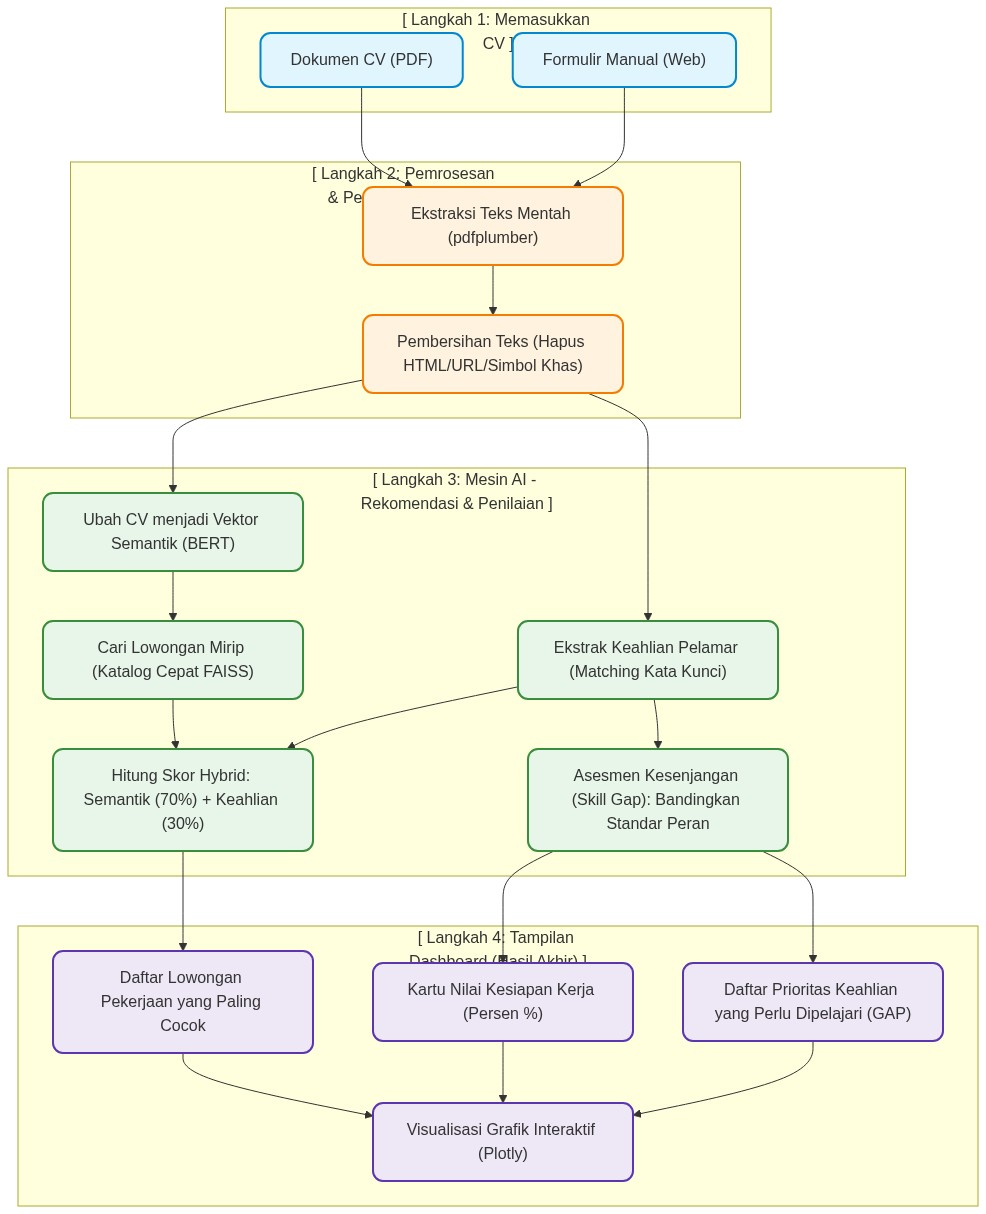
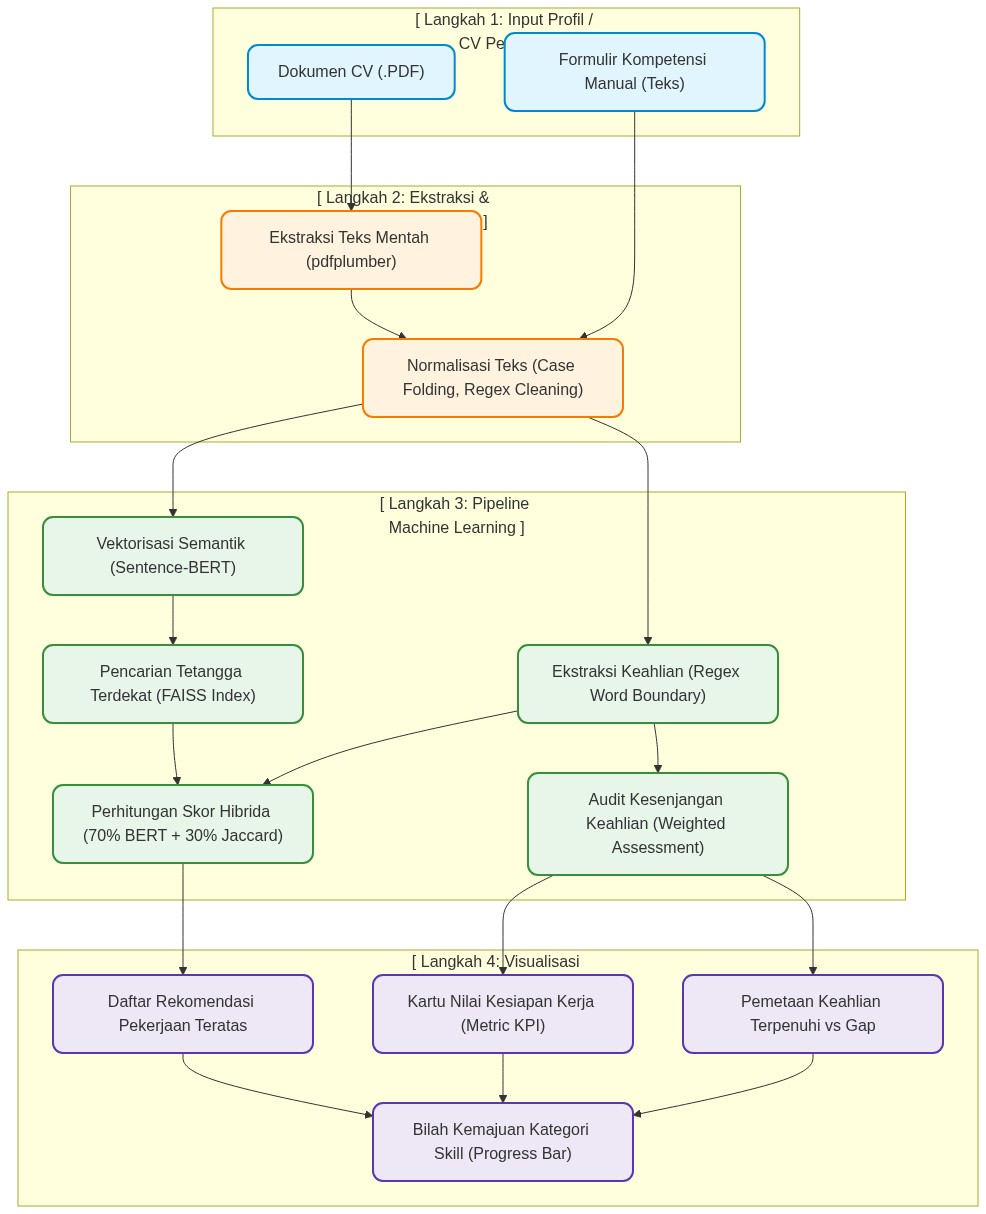
docs: tambahkan gambar PNG diagram fisik dan tautkan ke berkas panduan markdown

Changed region(s): [[0.0, 0.0, 1.0, 0.8839], [0.426, 0.9143, 0.6085, 0.9753]]

diff --git a/CV Recommender/PROSES_PENGEMBANGAN_ML.md b/CV Recommender/PROSES_PENGEMBANGAN_ML.md
@@ -10,6 +10,11 @@ Buku panduan ini dirancang untuk menjelaskan seluruh alur pengembangan, dari eks
 
 Diagram di bawah ini menggambarkan bagaimana data CV pelamar kerja diproses secara bertahap oleh kecerdasan buatan (BERT & FAISS) hingga menghasilkan kecocokan lowongan kerja dan rekomendasi kesiapan keahlian di layar dashboard.
 
+![Diagram Arsitektur Sistem](architecture_diagram.png)
+
+<details>
+<summary><b>Klik di sini untuk melihat Kode Sumber Mermaid (jika ingin diedit kembali)</b></summary>
+
 ```mermaid
 graph TD
     classDef inputStyle fill:#e1f5fe,stroke:#0288d1,stroke-width:2px,rx:10px,ry:10px;
@@ -68,6 +73,8 @@ graph TD
     class C1,C2,C3,C4,C5 databaseStyle;
     class D1,D2,D3,D4 outputStyle;
 ```
+
+</details>
 
 ### Penjelasan Detail Alur Data:
 1. **Langkah 1 (Input):** Pelamar kerja memasukkan profil mereka melalui dua opsi: mengunggah berkas **PDF CV** asli, atau mengisi **formulir teks** terstruktur (Tahun Pengalaman, Pendidikan, Keahlian Pilihan).

diff --git a/Gap Analysis/PROSES_PENGEMBANGAN_ANALISIS.md b/Gap Analysis/PROSES_PENGEMBANGAN_ANALISIS.md
@@ -10,6 +10,11 @@ Panduan ini berisi penjelasan lengkap dan terstruktur mengenai alur pemrosesan d
 
 Diagram di bawah ini menggambarkan perjalanan data dari file mentah di lokal dan broker cloud (Aiven Kafka) hingga menjadi dataset kesenjangan siap saji di dashboard:
 
+![Diagram Alur Analisis Gap](gap_analysis_flow.png)
+
+<details>
+<summary><b>Klik di sini untuk melihat Kode Sumber Mermaid (jika ingin diedit kembali)</b></summary>
+
 ```mermaid
 graph TD
     classDef sourceStyle fill:#e8f5e9,stroke:#388e3c,stroke-width:2px,rx:10px,ry:10px;
@@ -63,6 +68,8 @@ graph TD
     class C1,C2,C3 calcStyle;
     class D1,D2,D3 viewStyle;
 ```
+
+</details>
 
 ### Penjelasan Rinci Alur Kerja ETL:
 1. **Fase 1 (Sumber Data):** Kita memiliki data industri berupa berkas CSV berisi ribuan iklan lowongan kerja (`adzuna_jobs.csv`) dan data akademik berupa berkas Excel standar keahlian O*NET (`Technology Skills.xlsx`). Selain itu, ada antrean pesan dinamis di broker cloud Aiven Kafka.

diff --git a/CV Recommender/TUTORIAL_DEPLOYMENT.md b/CV Recommender/TUTORIAL_DEPLOYMENT.md
@@ -10,6 +10,11 @@ Panduan ini berisi petunjuk lengkap dari dasar untuk menyiapkan, menjalankan, da
 
 Diagram di bawah ini menggambarkan bagaimana komponen frontend (Streamlit) dan backend (FastAPI/Pipeline) berinteraksi dalam lingkungan production:
 
+![Diagram Arsitektur Deployment](deployment_diagram.png)
+
+<details>
+<summary><b>Klik di sini untuk melihat Kode Sumber Mermaid (jika ingin diedit kembali)</b></summary>
+
 ```mermaid
 graph LR
     classDef clientStyle fill:#e6f7ff,stroke:#1890ff,stroke-width:2px;
@@ -25,6 +30,8 @@ graph LR
     class StreamlitCloud,BackendAPI,PipelineML cloudStyle;
     class ModelsFolder storageStyle;
 ```
+
+</details>
 
 ---
 

diff --git a/Gap Analysis/TUTORIAL_DEPLOYMENT.md b/Gap Analysis/TUTORIAL_DEPLOYMENT.md
@@ -10,6 +10,11 @@ Panduan ini berisi petunjuk lengkap langkah demi langkah dari awal untuk memasan
 
 Diagram di bawah ini menggambarkan alur kerja yang harus diikuti untuk menjalankan dashboard Gap Analysis dari awal:
 
+![Diagram Alur Pemasangan & Deployment](deployment_flow.png)
+
+<details>
+<summary><b>Klik di sini untuk melihat Kode Sumber Mermaid (jika ingin diedit kembali)</b></summary>
+
 ```mermaid
 graph TD
     classDef setupStyle fill:#fff3e0,stroke:#f57c00,stroke-width:2px,rx:5px,ry:5px;
@@ -27,6 +32,8 @@ graph TD
     class Step4,Step5,Step6 testStyle;
     class Step7 cloudStyle;
 ```
+
+</details>
 
 ---
 
